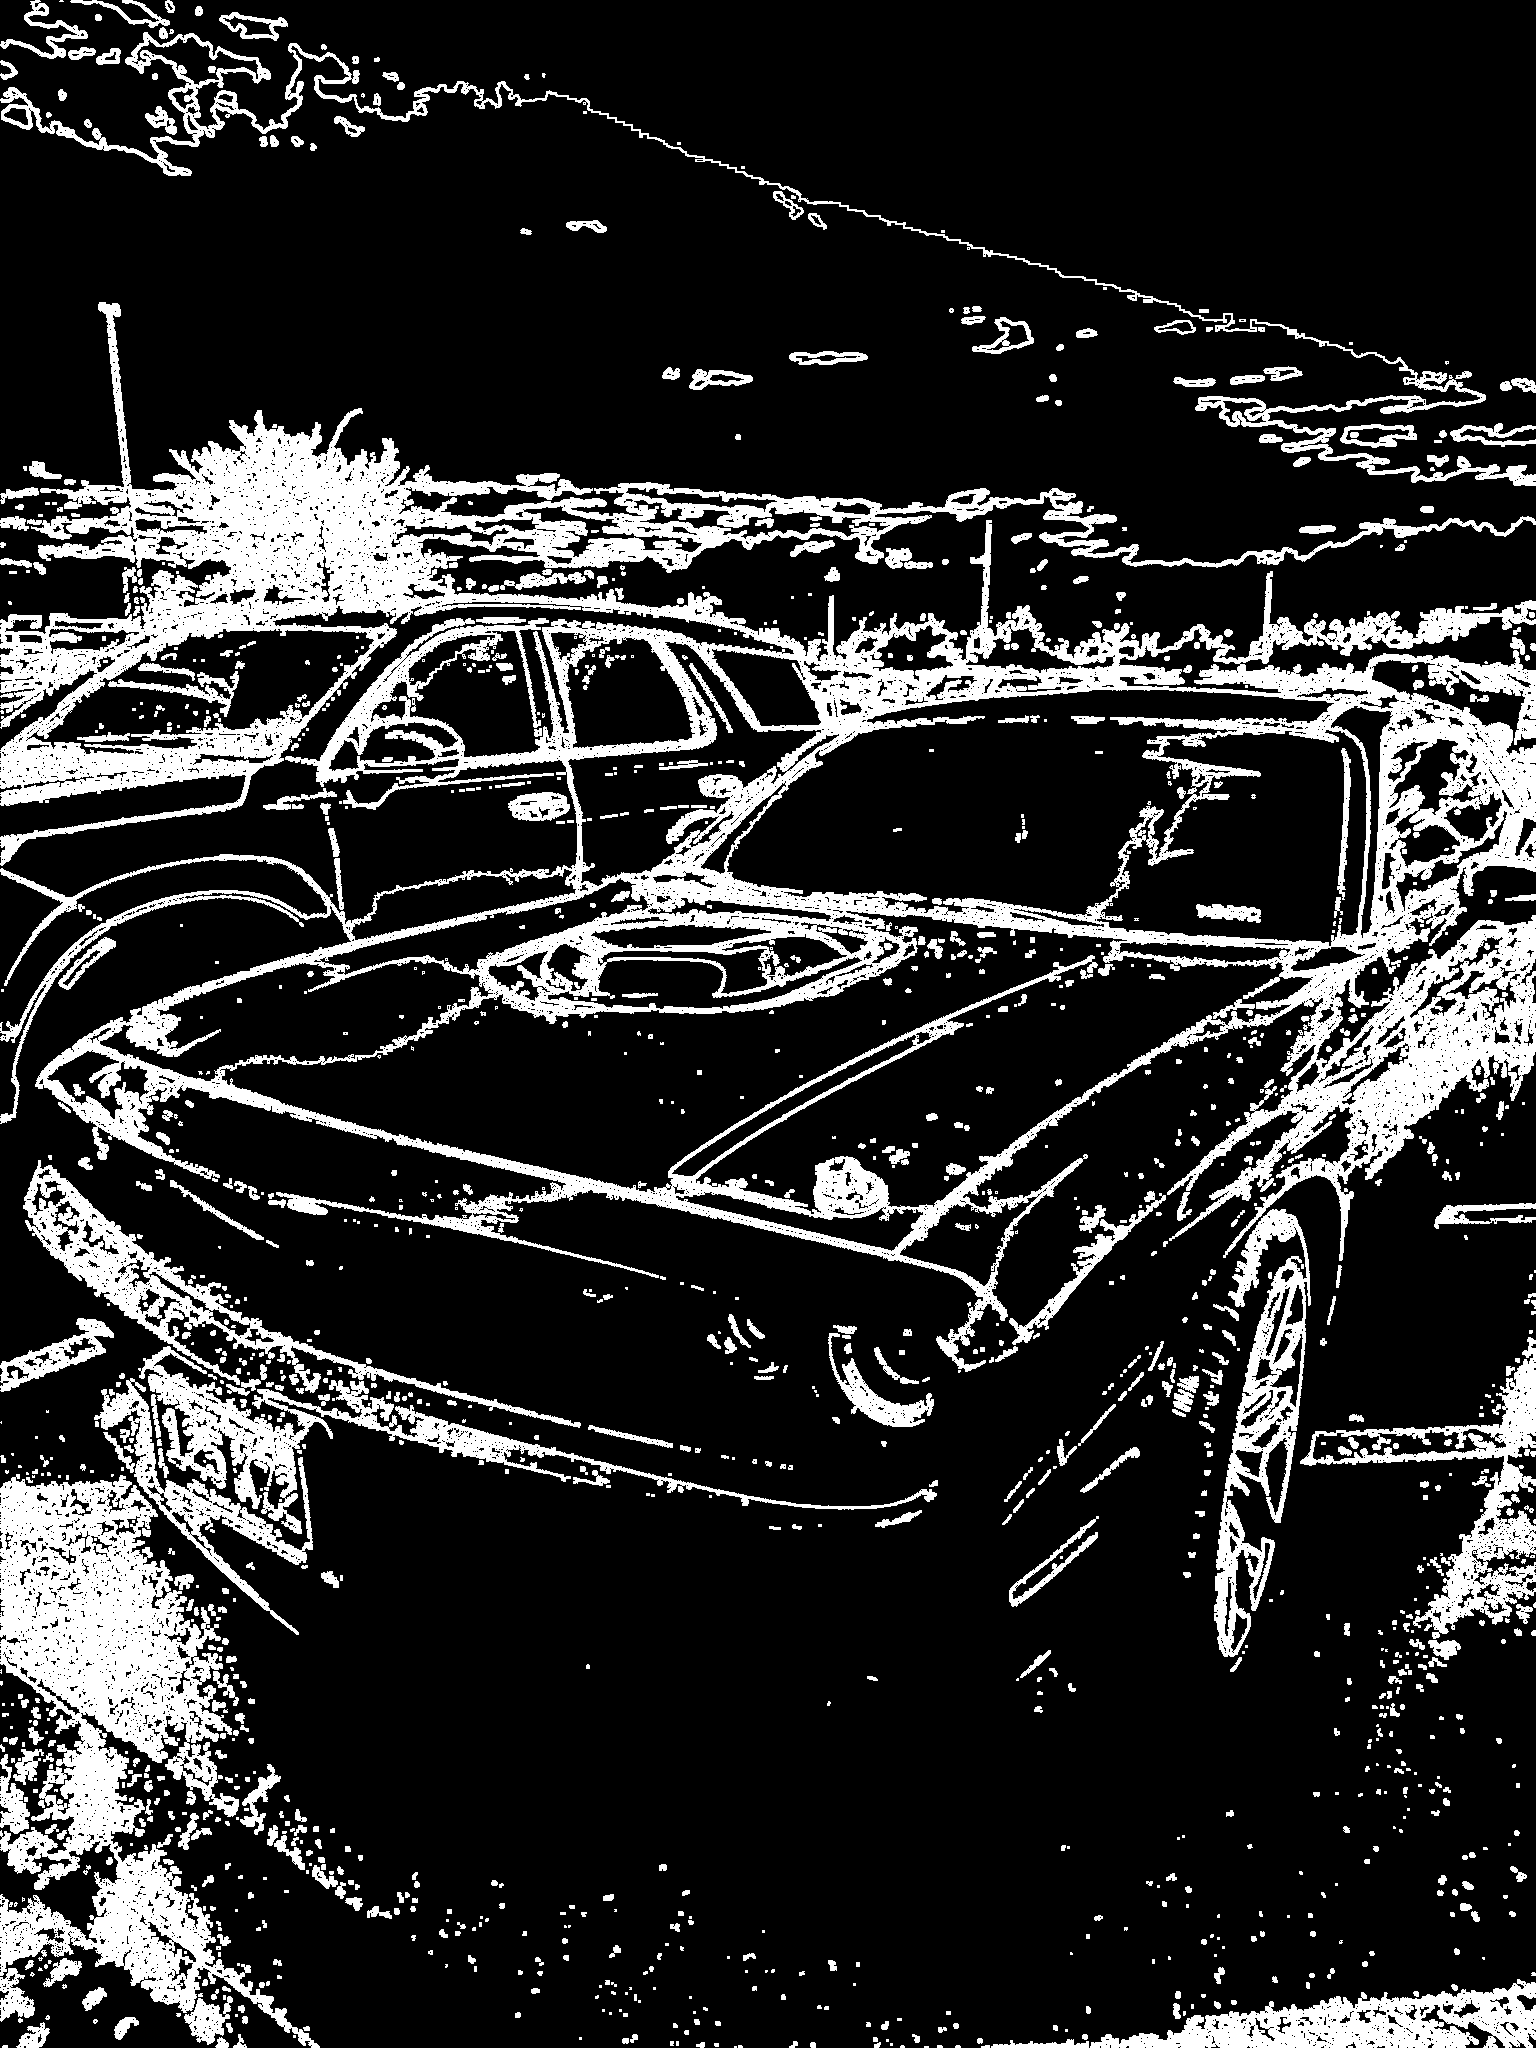
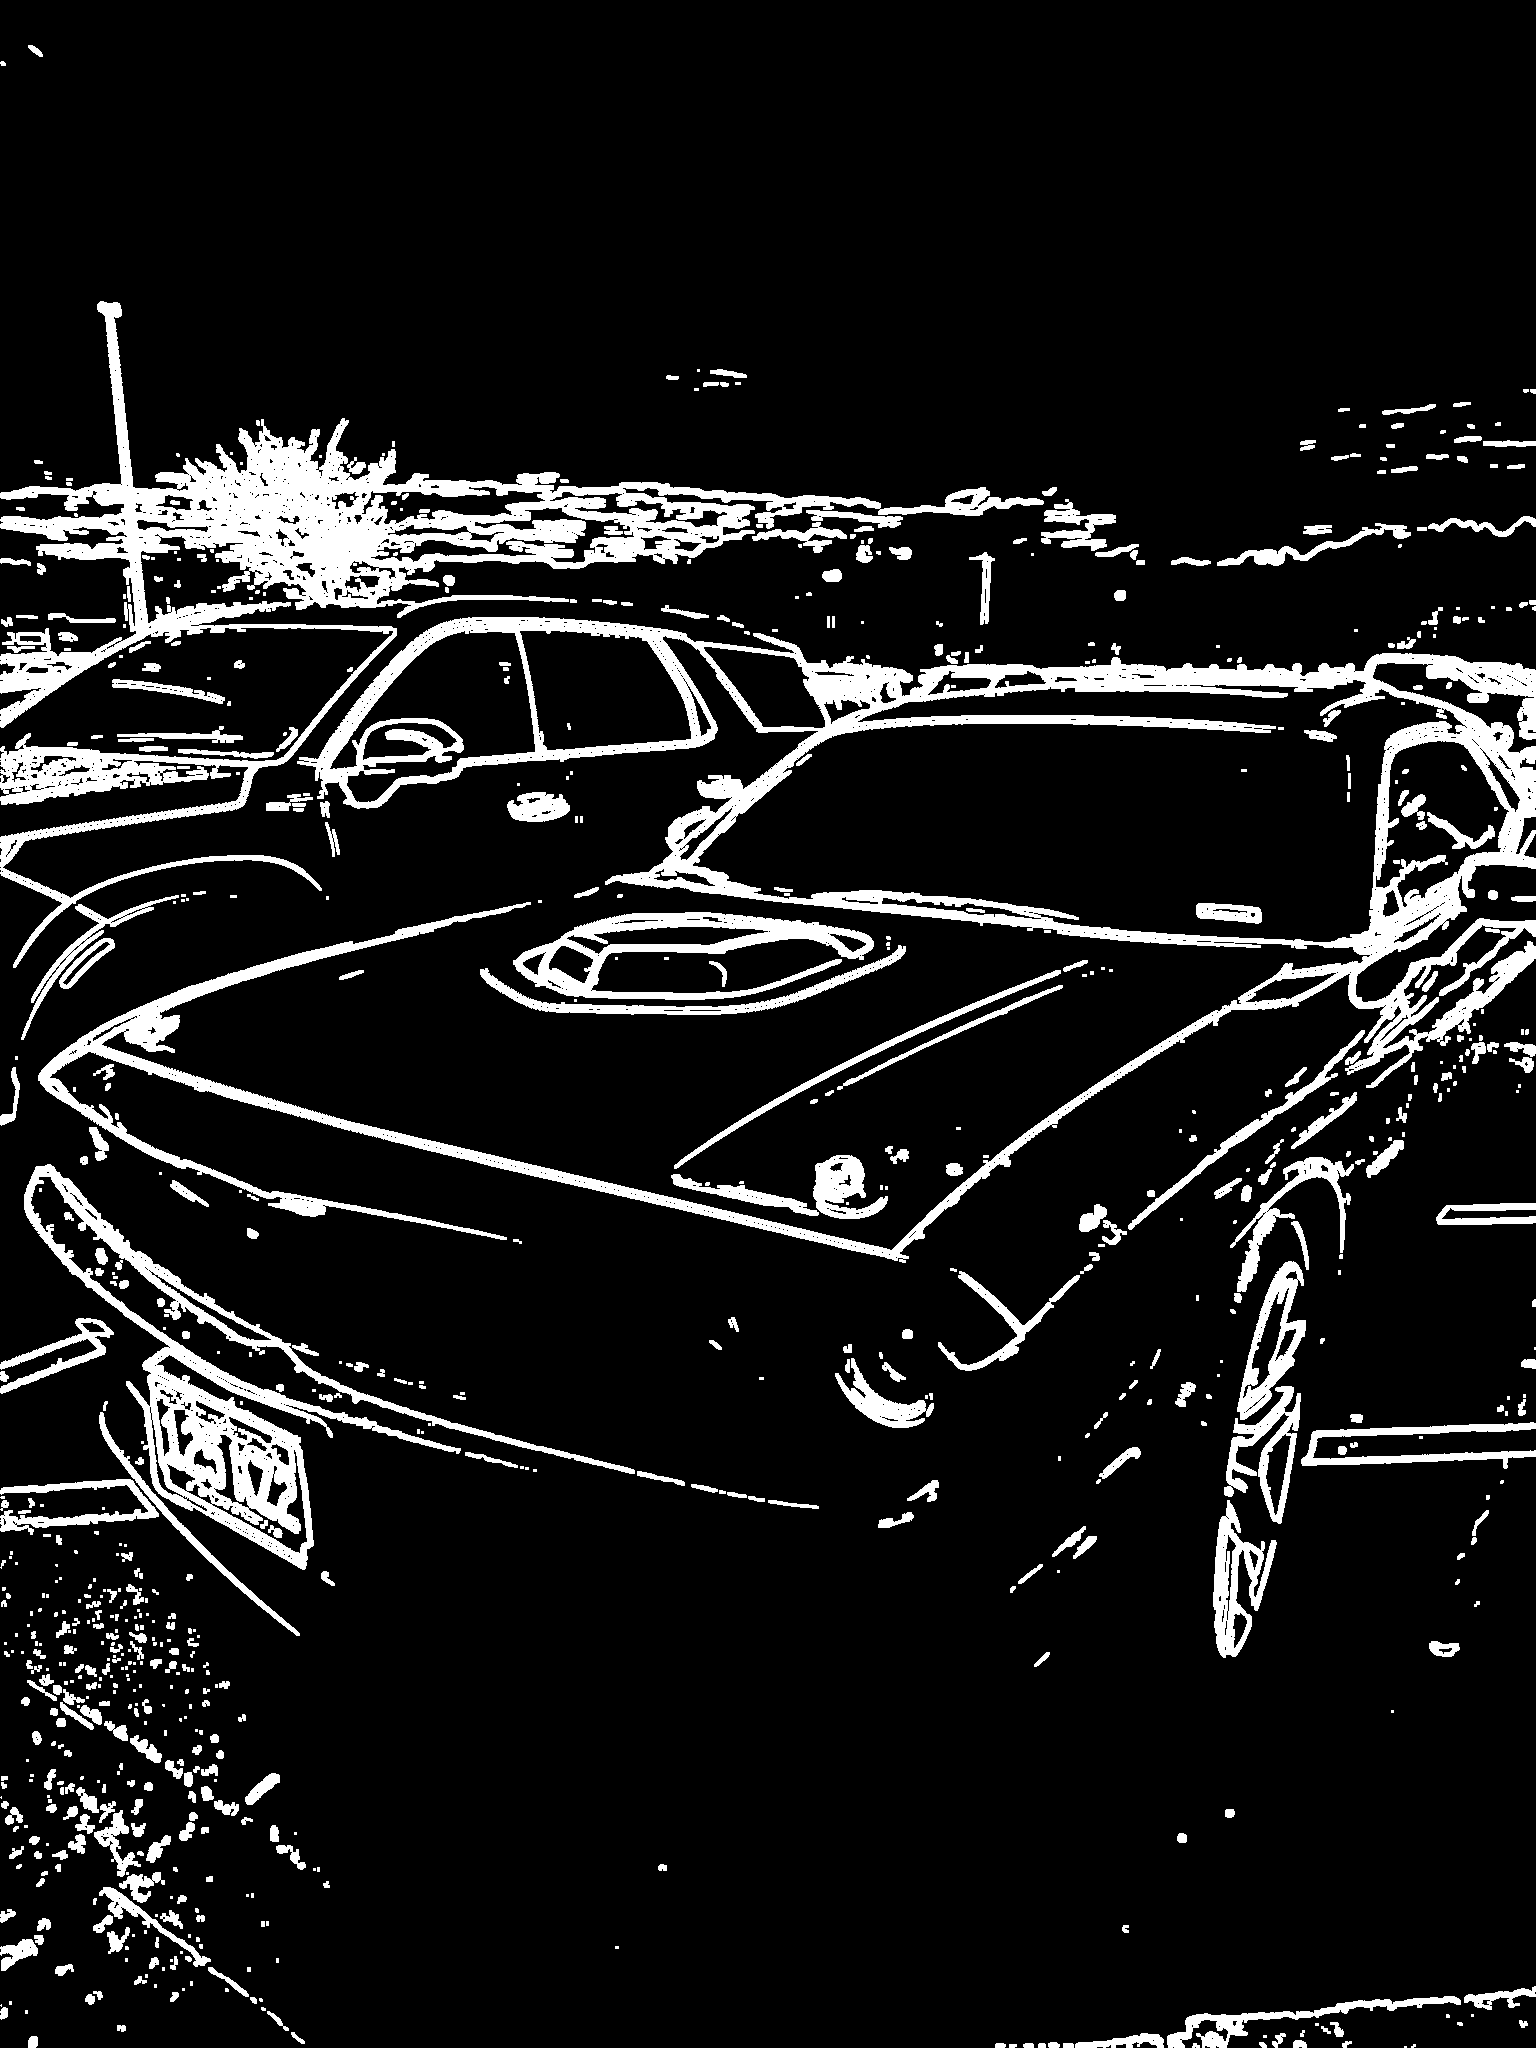
final changes
edited code and added new results

diff --git a/src/canny.py b/src/canny.py
@@ -57,8 +57,8 @@ class CannyOperator:
         Alternate:
         For 3 channels, use the formula: I = 0.2989 * R + 0.5870 * G + 0.1140 * B
         '''
-        self.__grayscale_np = np.mean(self.__img_np, axis=2, dtype=np.uint8)
-        # self.__grayscale_np = np.dot(self.__img_np[..., :3], [0.1140, 0.5870, 0.2989]) # for 3 channels, convert into 1 channel -> intensity
+        # self.__grayscale_np = np.mean(self.__img_np, axis=2, dtype=np.uint8)
+        self.__grayscale_np = np.dot(self.__img_np[..., :3], [0.2989, 0.5870, 0.1140]) # for 3 channels, convert into 1 channel -> intensity
         # grayscale_img = Image.fromarray(self.__grayscale_np)
         # grayscale_img.show()
         return self
@@ -264,10 +264,10 @@ if __name__ == "__main__":
         for i in range(1, len(sys.argv)):
             obj = CannyOperator(sys.argv[i])
             obj.grayscale()\
-                .gaussian_blur(size=3, sigma=10)\
+                .gaussian_blur(size=5, sigma=2.5)\
                 .gradient_approximation()\
                 .non_max_supression()\
-                .double_thresholding(low_threshold_ratio=0.1, high_threshold_ratio=0.3)\
+                .double_thresholding(low_threshold_ratio=0.09, high_threshold_ratio=0.18)\
                 .hysteresis(weak_pixel_intensity=50)\
                 .canny_cv2(tmin=50)\
                 .comparisons()
